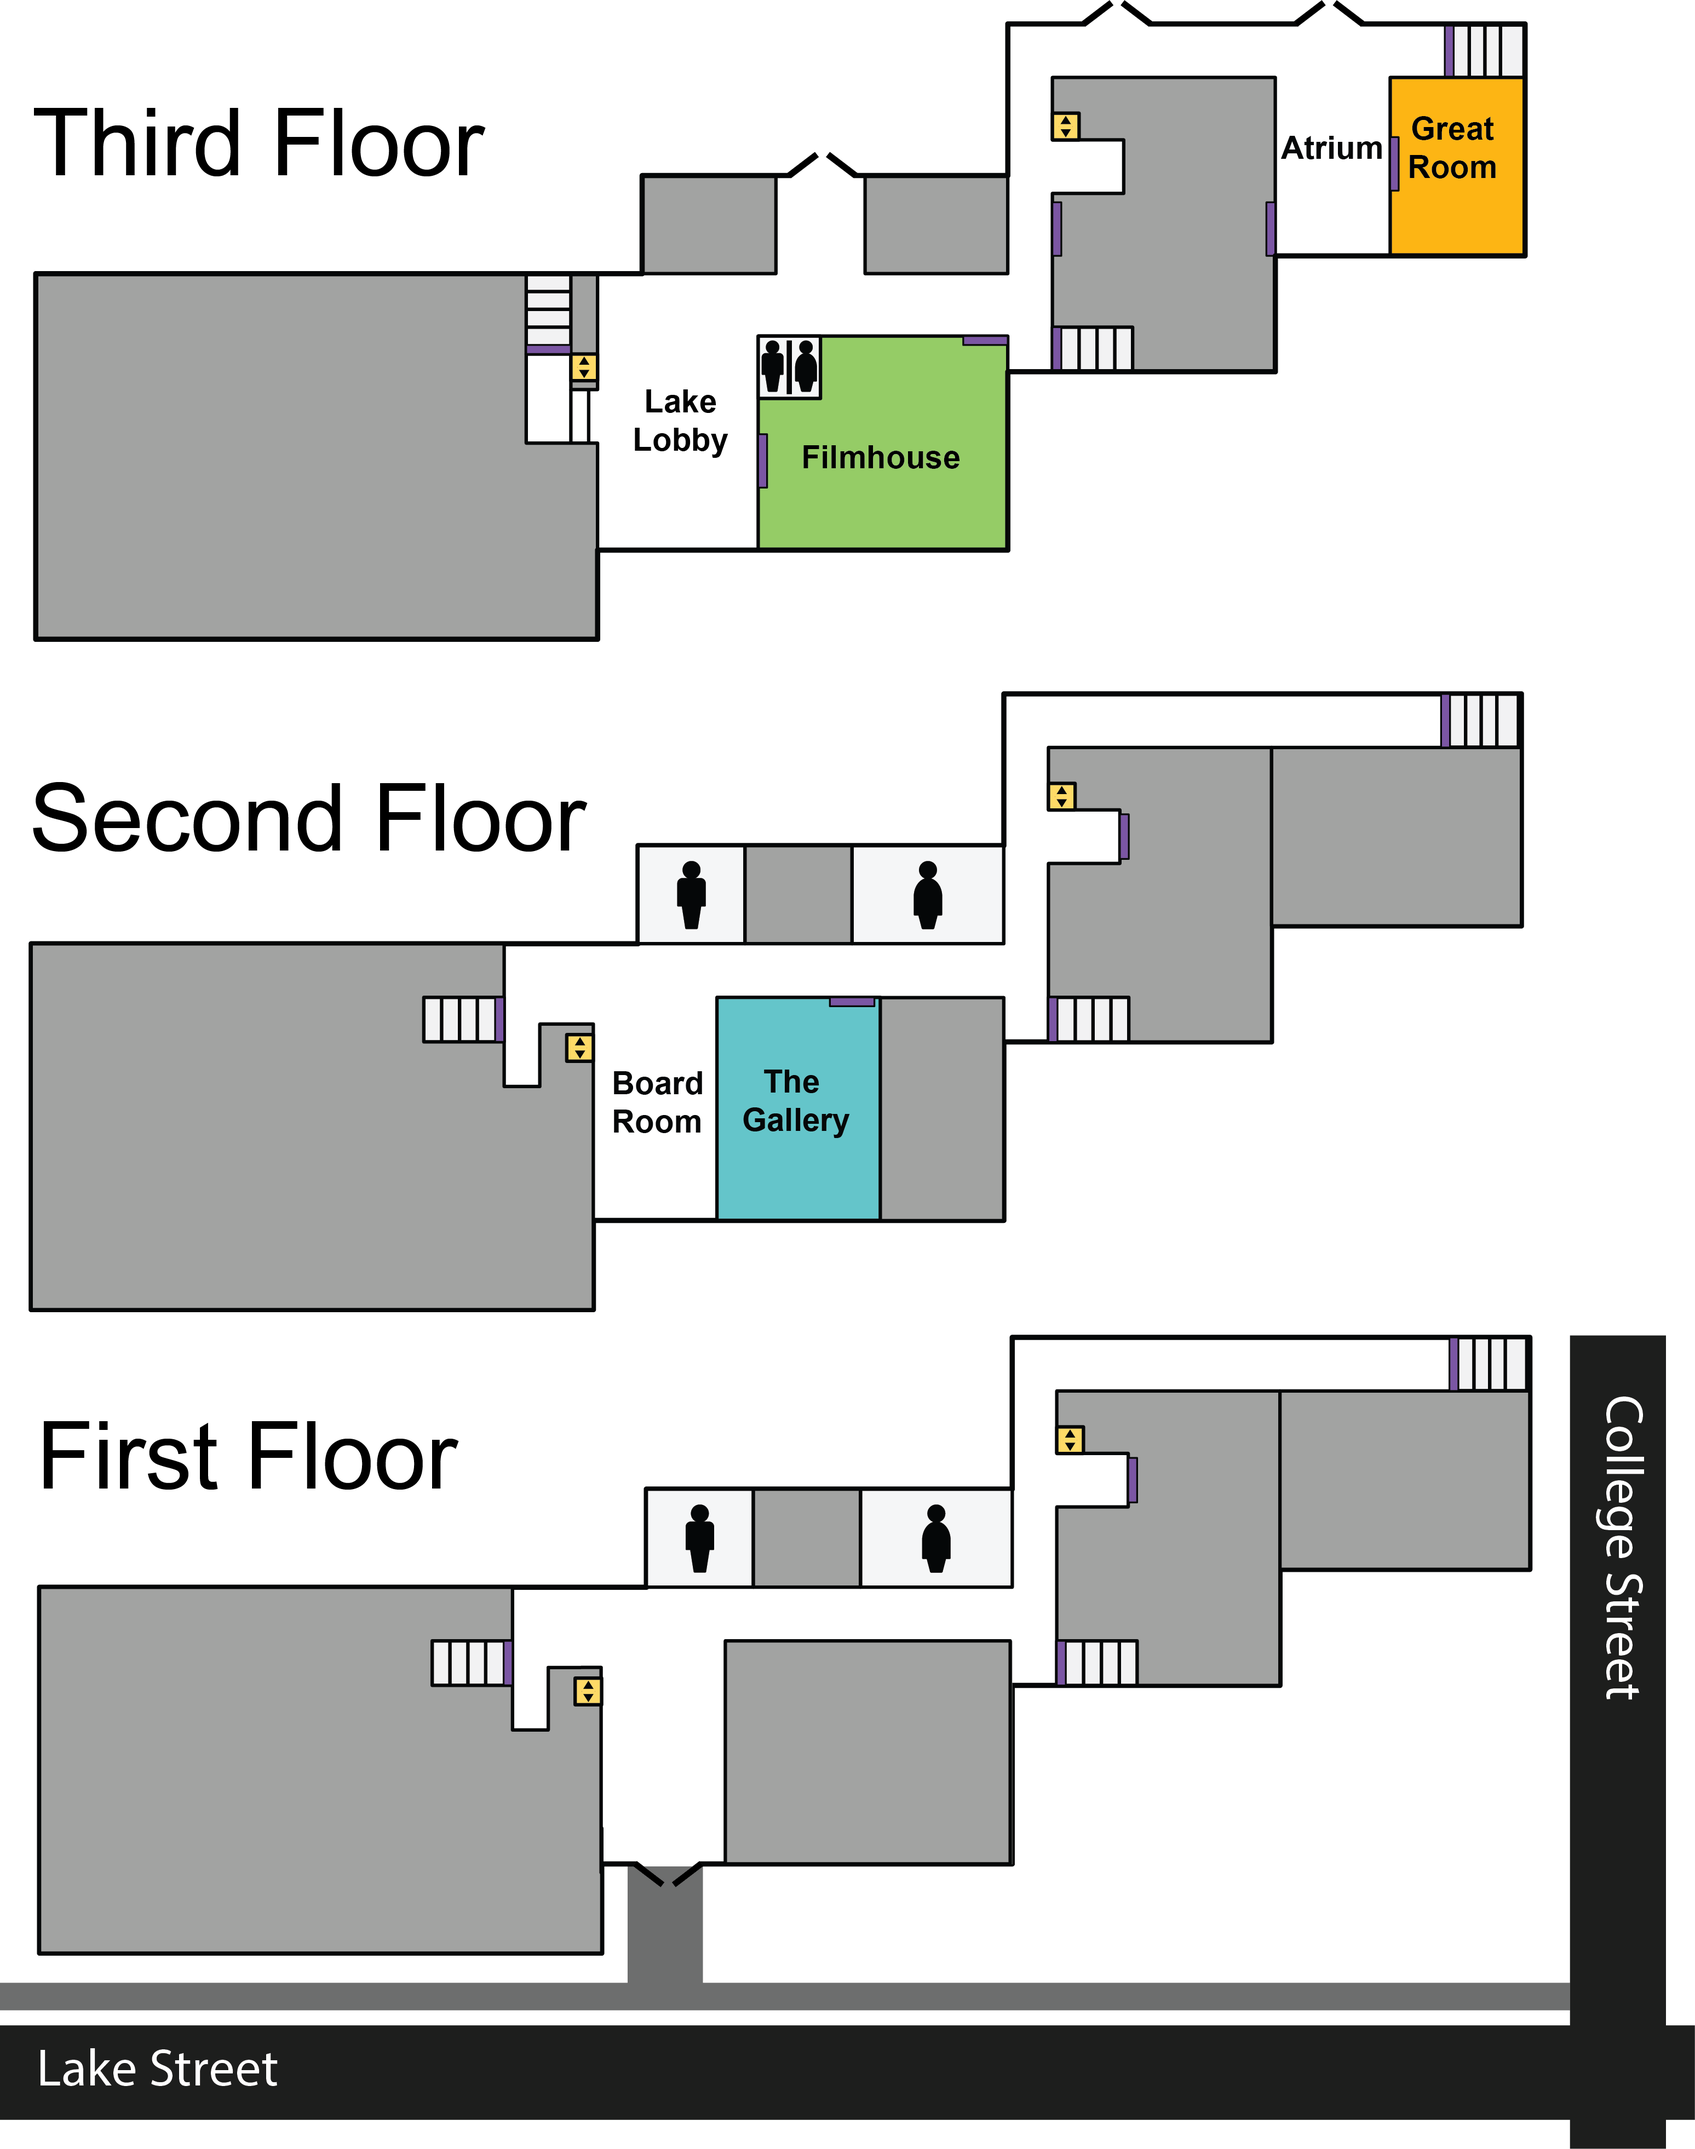
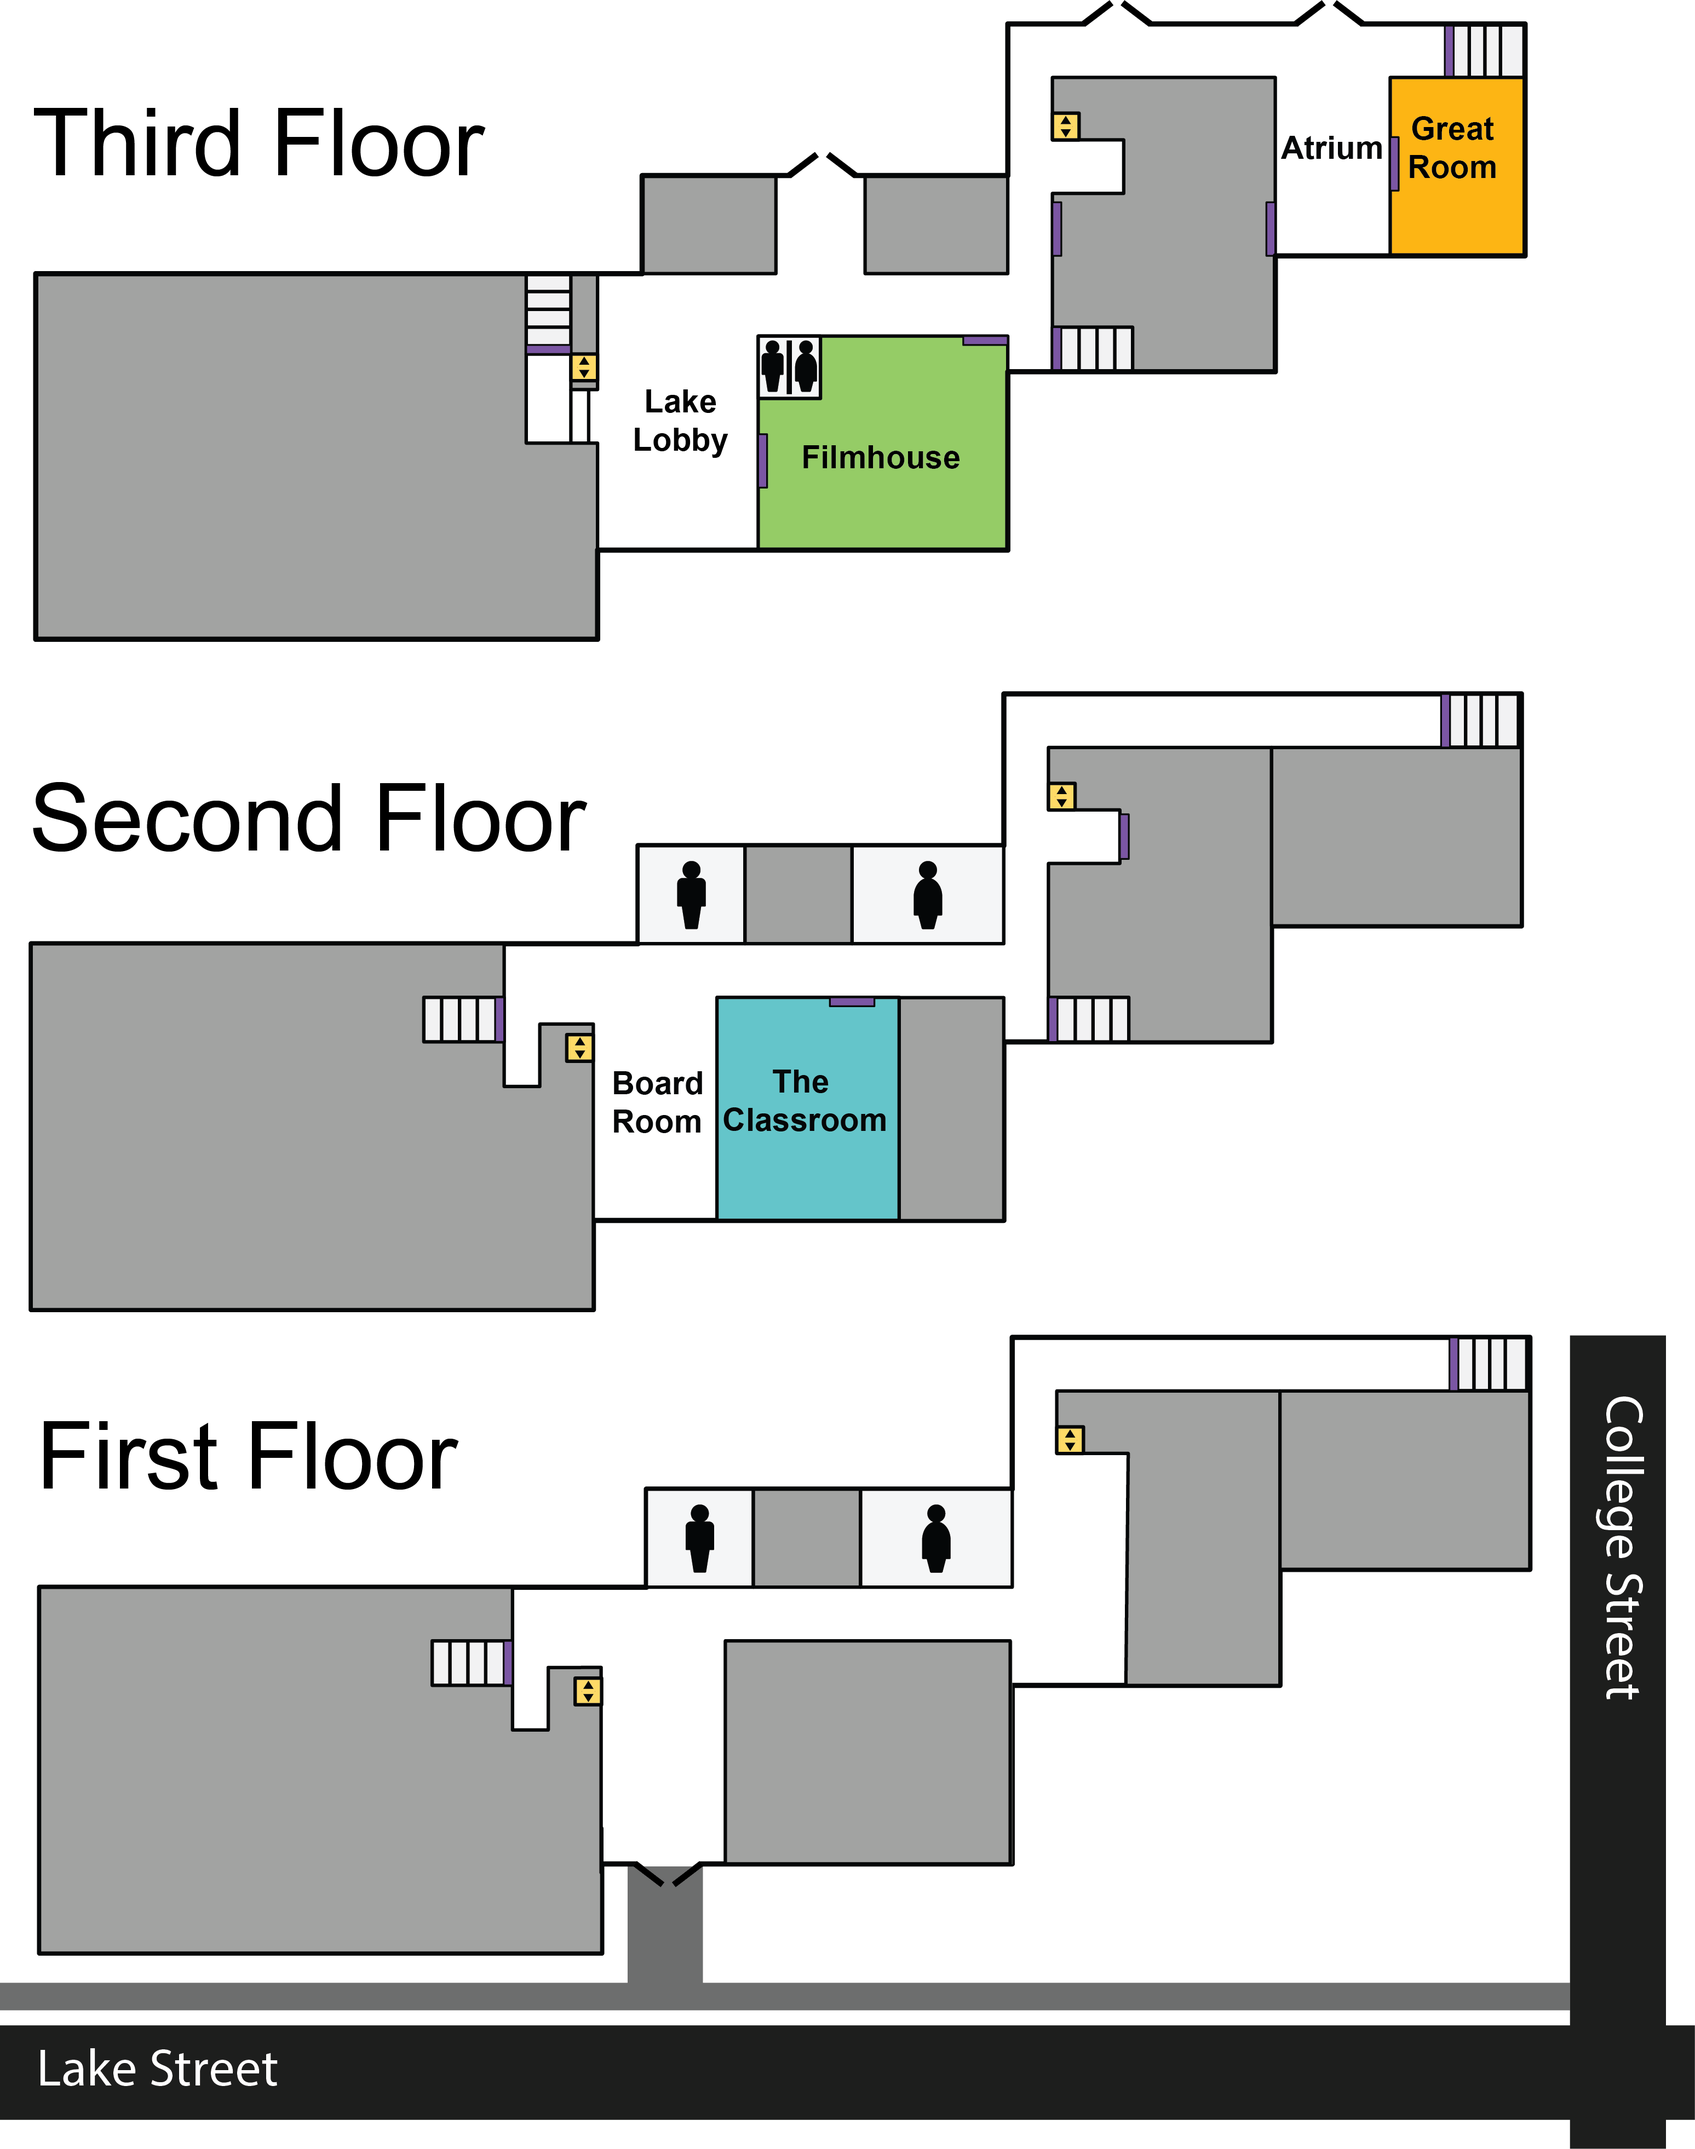
update to bios

Changed region(s): [[0.4342, 0.4664, 0.5583, 0.5596], [0.6204, 0.684, 0.6824, 0.7773]]

diff --git a/index.html b/index.html
@@ -457,7 +457,7 @@
                       </div>
                       <div class="col-lg-6 col-md-6 text-md-left" >
                         <p><b id='d204fh'>Filmhouse</b> - <a class="js-scroll-trigger" href="#s14" style="color:black">Jarlath O'Neil-Dunne:</a><a class="js-scroll-trigger" href="#p18"> Mapping Vermont From Above</a></p>
-                        <p><b id='d204gl'>The Gallery</b> - <a class="js-scroll-trigger" href="#s12" style="color:black">Ivan Brown:</a><a class="js-scroll-trigger" href="#p22"> Technical Communication: What It Is. What It Isn't. Why It's Important.</a></p>
+                        <p><b id='d204gl'>The Classroom</b> - <a class="js-scroll-trigger" href="#s12" style="color:black">Ivan Brown:</a><a class="js-scroll-trigger" href="#p22"> Technical Communication: What It Is. What It Isn't. Why It's Important.</a></p>
                         <p><b id='d204gr'>Great Room</b> - <a class="js-scroll-trigger" href="#s17" style="color:black">Johnathan Croft:</a><a class="js-scroll-trigger" href="#p14"> Assembling MIRE Data: A Look Into the Development of GIS-based Intersection Data</a></p>
                       </div>
 
@@ -466,7 +466,7 @@
                       </div>
                       <div class="col-md-6 text-md-left">
                         <p><b id='d205fh'>Filmhouse</b> - <a class="js-scroll-trigger" href="#s10" style="color:black">Greg Warrington:</a><a class="js-scroll-trigger" href="#p19"> Gerrymandering: Math, Maps, and Mayhem </a></p>
-                        <p><b id='d205gl'>The Gallery</b> - <a class="js-scroll-trigger" href="#s28" style="color:black">Tom Schwartzman: </a><a class="js-scroll-trigger" href="#p28"> R and the ArcGIS Bridge</a></p>
+                        <p><b id='d205gl'>The Classroom</b> - <a class="js-scroll-trigger" href="#s28" style="color:black">Tom Schwartzman: </a><a class="js-scroll-trigger" href="#p28"> R and the ArcGIS Bridge</a></p>
                         <p><b id='d205gr'>Great Room</b> - <a class="js-scroll-trigger" href="#s07" style="color:black">Erik Engstrom: </a><a class="js-scroll-trigger" href="#p07"> Save our Ash</a></p>
                       </div>
 
@@ -475,7 +475,7 @@
                       </div>
                       <div class="col-lg-6 col-md-6 text-md-left">
                         <p><b id='d206fh'>Filmhouse</b> - <a class="js-scroll-trigger" href="#s16" style="color:black">John Stanton-Geddes:</a><a class="js-scroll-trigger" href="#p11"> Storytelling in Data Science </a></p>
-                        <p><b id='d206gl'>The Gallery</b> - <a class="js-scroll-trigger" href="#s03" style="color:black">Dan Martin:</a><a class="js-scroll-trigger" href="#p12"> New Datums: Replacing NAD 83 and NAVD 88</a></p>
+                        <p><b id='d206gl'>The Classroom</b> - <a class="js-scroll-trigger" href="#s03" style="color:black">Dan Martin:</a><a class="js-scroll-trigger" href="#p12"> New Datums: Replacing NAD 83 and NAVD 88</a></p>
                         <p><b id='d206gr'>Great Room</b> - <a class="js-scroll-trigger" href="#s19" style="color:black">Meg Petroski</a> & <a class="js-scroll-trigger" href="#s20" style="color:black">Betsy Thompson:</a><a class="js-scroll-trigger" href="#p09"> Essential Steps to Clean Up Your Data in Record Time</a></p>
                       </div>
 
@@ -497,7 +497,7 @@
                         <h4>1:15-2:00 PM</h4>
                       </div>
                       <div class="col-md-6 text-md-left">
-                        <p><b id='d209fh'>Filmhouse</b> - <a class="js-scroll-trigger" href="#s01" style="color:black">Bill Morris:</a><a class="js-scroll-trigger" href="#p15"> Google and the State of Vertically-Integrated Geodata Systems</a> (panel to follow)</p>
+                        <p><b id='d209fh'>Filmhouse</b> - <a class="js-scroll-trigger" href="#s01" style="color:black">Bill Morris:</a><a class="js-scroll-trigger" href="#p15"> Google and the State of Vertically-Integrated Geodata Systems</a></p>
                       </div>
 
                       <div class="col-lg-6 col-md-6 text-md-right">
@@ -505,7 +505,7 @@
                       </div>
                       <div class="col-md-6 text-md-left">
                         <p><b id='d210fh'>Filmhouse</b> - <a class="js-scroll-trigger" href="#s09" style="color:black">Greg Fanslow:</a><a class="js-scroll-trigger" href="#p08"> Zen and the Art of a Sports Ranking System: Data driven insights for a new Olympic sport</a></p>
-                        <p><b id='d210gl'>The Gallery</b> - <a class="js-scroll-trigger" href="#s11" style="color:black">Hugo Mart&iacute;nez Caz&oacute;n:</a><a class="js-scroll-trigger" href="#p13"> Citizen Archaeology and Geology: The Burlington Ravine</a></p>
+                        <p><b id='d210gl'>The Classroom</b> - <a class="js-scroll-trigger" href="#s11" style="color:black">Hugo Mart&iacute;nez Caz&oacute;n:</a><a class="js-scroll-trigger" href="#p13"> Citizen Archaeology and Geology: The Burlington Ravine</a></p>
                         <p><b id='d210gr'>Great Room</b> - <a class="js-scroll-trigger" href="#s04" style="color:black">David Breeding: </a><a class="js-scroll-trigger" href="#p05"> Is Spatial Still Special?: Perspectives on the Implications of Data Science and Tools for Geoanalytics and the Geoprofession</a></p>
                       </div>
 
@@ -527,7 +527,7 @@
                         <li id='d214fh'><a class="js-scroll-trigger" href="#s18" style="color:black">Kelsey Tobin:</a><a class="js-scroll-trigger" href="#p16"> 3D Data Visualization for Contaminated Sites</a><p></li>
                         </ul>
 
-                        <b>The Gallery</b><br>
+                        <b>The Classroom</b><br>
                         <ul>
                         <li id='d212gl'><a class="js-scroll-trigger" href="#s22" style="color:black">Roger Branon Rodriguez:</a><a class="js-scroll-trigger" href="#p17"> Vermont Agency of Transportation's Flood Resilience Planning Tool: UX Design for Data-Rich Applications</a></li>
                         <li id='d213gl'><a class="js-scroll-trigger" href="#s30" style="color:black">Josiah Raiche:</a><a class="js-scroll-trigger" href="#p30"> Democratizing Data and Building an Analytical Culture in State Government</a></li>
@@ -853,7 +853,7 @@
         <div class="portfolio-caption">
           <h4>Hugo Mart&iacute;nez Caz&oacute;n</h4><p>
           <div class="text-muted text-left">
-          <a class="js-scroll-trigger" href="#p13">"Citizen archeology/geology, The Burlington Ravine"</a> @ <a class="js-scroll-trigger" href="#d210gl">2:00PM-2:30PM The Gallery</a>
+          <a class="js-scroll-trigger" href="#p13">"Citizen archeology/geology, The Burlington Ravine"</a> @ <a class="js-scroll-trigger" href="#d210gl">2:00PM-2:30PM The Classroom</a>
           <p>
             Hugo Martinez Cazon is an environmental engineer.  His work combines his technical skills with his love for industrial history.Growing up his prized possession was a historical atlas his father gave him, and the love for making a historic map to illustrate facts was born.  His mom's passion for cross polinating knowledge and art encouraged a lifetime of curiosity.
           </p>
@@ -1032,7 +1032,7 @@
         <div class="portfolio-caption">
           <h4>Josiah Raiche</h4><p>
           <div class="text-muted text-left">
-          <a class="js-scroll-trigger" href="#p30">"Democratizing Data and Building an Analytical Culture in State Government"</a> @ <a class="js-scroll-trigger" href="#d213gl">3:00PM-4:00PM The Gallery</a>
+          <a class="js-scroll-trigger" href="#p30">"Democratizing Data and Building an Analytical Culture in State Government"</a> @ <a class="js-scroll-trigger" href="#d213gl">3:00PM-4:00PM The Classroom</a>
           <p>
             Josiah is a developer for the State of Vermont in the Agency of Digital Service and VTrans. He does a lot of data visualization and number crunching. When he's not working on digital stuff he's playing with toddlers or practicing ancient-style rudimental snare drum.
           </p>
